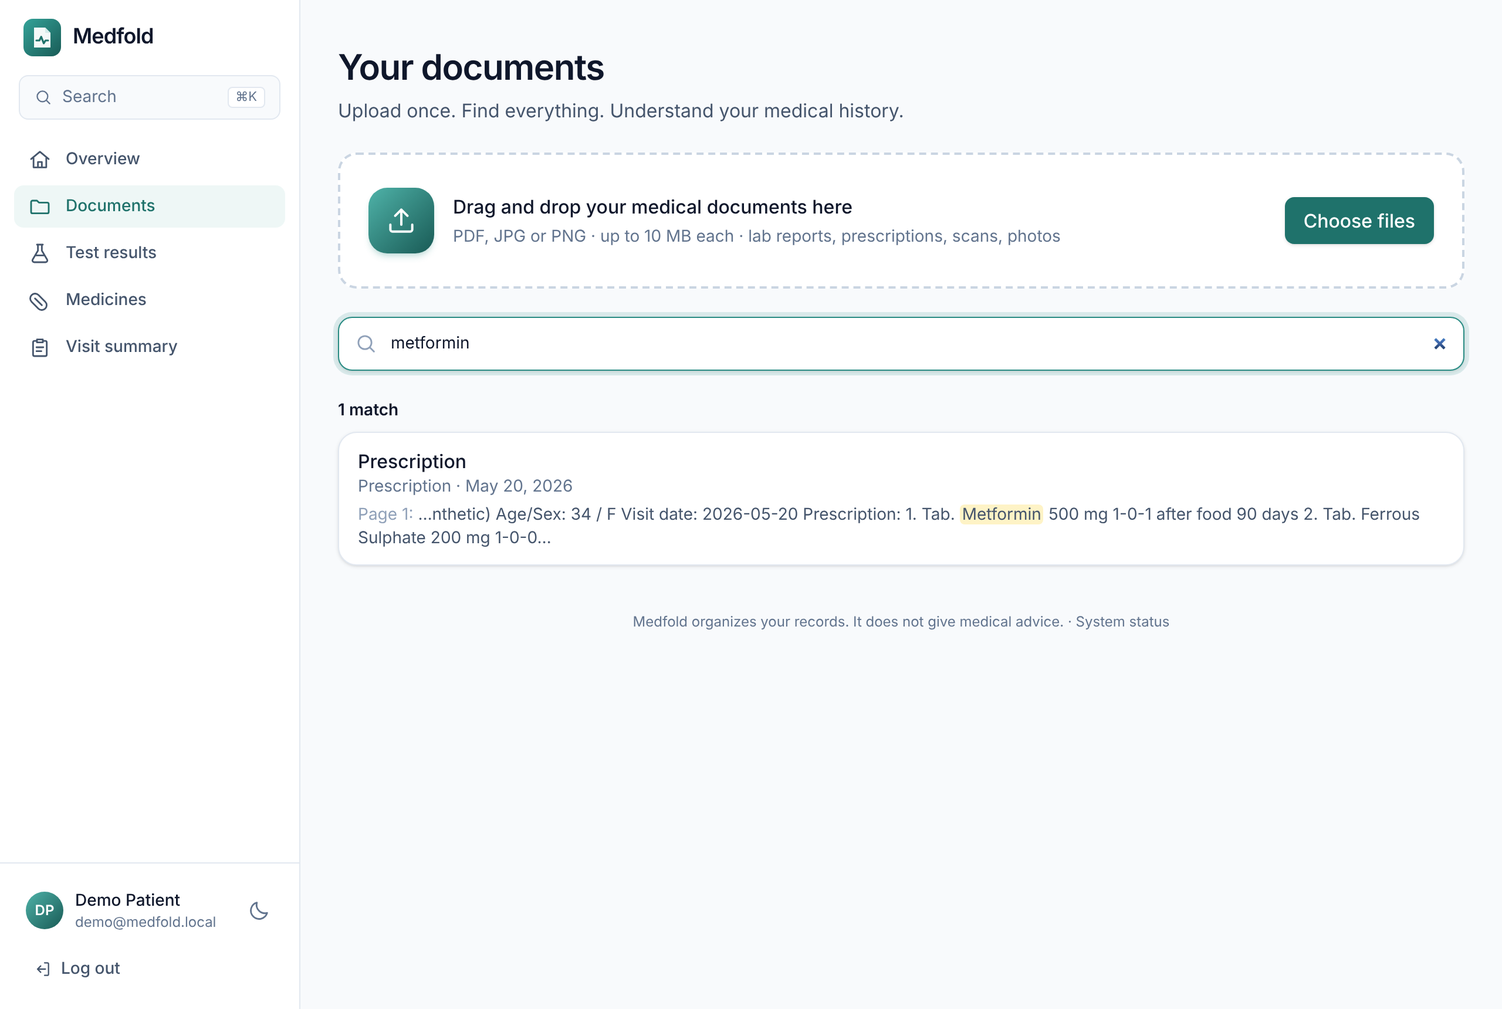
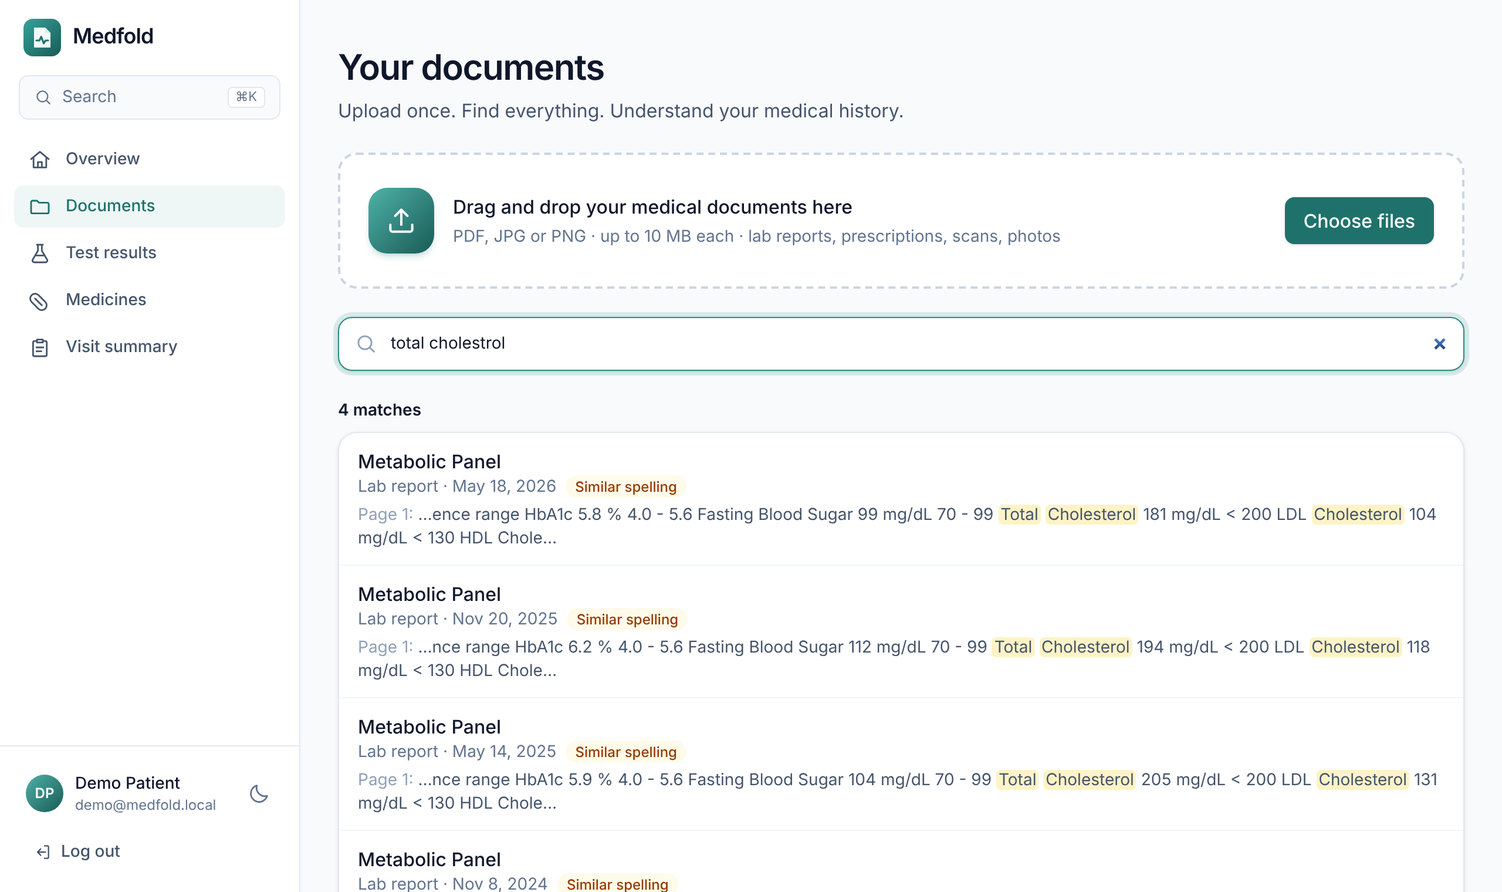
docs: ADR-011 for typo-tolerant search, and updated numbers
ADR-011 records the threshold measurements and the strict-similarity
finding. ADR-003 is marked as amended. Limitations, feature matrix,
status, roadmap, API and database docs updated; every number re-measured
with scripts/verify-claims.sh (479 tests) and the numbers card redrawn.

diff --git a/README.md b/README.md
@@ -4,7 +4,7 @@
 
 <p align="center">
   <a href="https://github.com/n3h4a/medfold/actions/workflows/ci.yml"><img src="https://github.com/n3h4a/medfold/actions/workflows/ci.yml/badge.svg" alt="CI"></a>
-  <a href="docs/05-testing/test-plan.md#coverage"><img src="https://img.shields.io/badge/tests-471%20passing-brightgreen" alt="471 tests passing"></a>
+  <a href="docs/05-testing/test-plan.md#coverage"><img src="https://img.shields.io/badge/tests-479%20passing-brightgreen" alt="479 tests passing"></a>
   <a href="docs/05-testing/test-plan.md#coverage"><img src="https://img.shields.io/badge/line%20coverage-93--97%25-brightgreen" alt="Line coverage 93 to 97 percent"></a>
   <a href="docs/05-testing/code-audit.md"><img src="https://img.shields.io/badge/security%20checks-22%2F22-brightgreen" alt="22 of 22 security checks pass"></a>
   <a href="LICENSE"><img src="https://img.shields.io/badge/license-MIT-blue.svg" alt="MIT license"></a>
@@ -36,7 +36,7 @@
 </p>
 
 <p align="center">
-  <img src="assets/charts/by-the-numbers.png" alt="By the numbers: 471 automated tests, 93 to 97 percent line coverage, 29 REST endpoints, under 12 ms p95 read latency, 25 of 25 routes attacked for privacy, 10 database tables, 10 decision records, 5 CI jobs per push" width="100%">
+  <img src="assets/charts/by-the-numbers.png" alt="By the numbers: 479 automated tests, 93 to 97 percent line coverage, 29 REST endpoints, under 12 ms p95 read latency, 25 of 25 routes attacked for privacy, 10 database tables, 11 decision records, 5 CI jobs per push" width="100%">
   <br><sub>Every number above is measured, not estimated: <code>scripts/verify-claims.sh</code> re-runs the suites and recounts them.</sub>
 </p>
 
@@ -125,13 +125,15 @@ Four rules came out of that, and every later decision follows them:
 | ![HbA1c over time with the printed range shaded](demo/screenshots/lab-trend.png) | ![Search palette finding tests and documents](demo/screenshots/search-palette.png) |
 
 <details>
-<summary>More screens: test results, medicines, dark mode, phone, login</summary>
+<summary>More screens: test results, medicines, dark mode, phone, login, typo-tolerant search</summary>
 
 | Every test, latest and previous value | Every medicine | Dark mode |
 |---|---|---|
 | ![Test results as cards](demo/screenshots/test-results.png) | ![Medicines as written](demo/screenshots/medicines.png) | ![Overview in dark mode](demo/screenshots/dark-mode.png) |
 | **On a phone** | **Trend on a phone** | **Log in** |
 | ![Overview on a phone](demo/screenshots/mobile-overview.png) | ![Trend on a phone](demo/screenshots/mobile-trend.png) | ![Login page](demo/screenshots/login.png) |
+| **Misspelled search still finds it** | | |
+| ![Search for "total cholestrol" finding every metabolic panel, marked as a similar spelling](demo/screenshots/search.png) | | |
 
 </details>
 
@@ -205,7 +207,7 @@ I turned down and what the choice costs.
 | Question | Answer |
 |---|---|
 | **Why Spring Boot?** ([ADR-008](docs/03-design/adr/ADR-008-why-spring-boot.md)) | The public API is where mistakes cost most. Spring gives tested JWT auth, precise transactions and repositories that can't load another user's data. The price: a heavier runtime than Node or Go. |
-| **Why PostgreSQL, and only PostgreSQL?** ([ADR-009](docs/03-design/adr/ADR-009-why-postgresql.md)) | One database also runs the job queue (`SKIP LOCKED`), search and login throttling, so an upload and its job are saved atomically and there's one thing to back up. Search is simple substring matching as a result. |
+| **Why PostgreSQL, and only PostgreSQL?** ([ADR-009](docs/03-design/adr/ADR-009-why-postgresql.md)) | One database also runs the job queue (`SKIP LOCKED`), search and login throttling, so an upload and its job are saved atomically and there's one thing to back up. Search stays inside PostgreSQL too: substring matching plus `pg_trgm` for misspellings ([ADR-011](docs/03-design/adr/ADR-011-typo-tolerant-search.md)). |
 | **Why OCR before AI?** ([ADR-010](docs/03-design/adr/ADR-010-ocr-before-ai.md)) | Digital PDFs already contain exact text, so there's nothing for a vision model to improve. The model reads stored text, which makes every value traceable and lets the app run offline. Handwriting reads poorly as a result. |
 | **How do you stop the AI giving medical advice?** ([ADR-007](docs/03-design/adr/ADR-007-ai-safety-boundary.md)) | Give it nowhere to put advice: the schema has no such field, the wording is checked, and "above range" is arithmetic in the backend. |
 | **Why two services?** ([ADR-005](docs/03-design/adr/ADR-005-service-split.md)) | Python has the best OCR and LLM tools, Java the strongest core. The AI service is stateless and can be replaced. |
@@ -281,8 +283,8 @@ Real mistakes, all fixed, each with a test that now guards it ([full bug log](do
 
 | | |
 |---|---|
-| **Tests** | 471: 223 backend (against a real PostgreSQL), 108 frontend, 140 AI service, plus an end-to-end CI job on the built Docker stack that OCRs a photographed prescription |
-| **Coverage** | Lines: backend 93.3%, frontend 94.7%, AI service 97.1% ([test plan](docs/05-testing/test-plan.md)) |
+| **Tests** | 479: 230 backend (against a real PostgreSQL), 109 frontend, 140 AI service, plus an end-to-end CI job on the built Docker stack that OCRs a photographed prescription |
+| **Coverage** | Lines: backend 93.6%, frontend 94.7%, AI service 97.1% ([test plan](docs/05-testing/test-plan.md)) |
 | **Reproducible** | `scripts/verify-claims.sh` re-runs every suite and recounts every number on this page |
 | **Privacy** | `UserIsolationTest` attacks all 25 routes as a second user; new routes fail the build until they're checked |
 | **Security** | `scripts/security-check.sh` attacks a running stack from outside: 22/22 pass; no known vulnerable dependencies ([code audit](docs/05-testing/code-audit.md)) |
@@ -313,7 +315,7 @@ All limitations: [KNOWN_LIMITATIONS.md](KNOWN_LIMITATIONS.md).
 **v1.1.0**: feature-complete for one person's records, CI green. Done, in progress, remaining
 and known issues: **[PROJECT_STATUS.md](PROJECT_STATUS.md)**.
 
-Next: password reset and two-factor login, typo-tolerant search, more OCR languages, a vision
+Next: password reset and two-factor login, more OCR languages, a vision
 model only for hard-to-read pages, sharing a read-only link with a doctor, FHIR export
 ([ROADMAP.md](ROADMAP.md), [issues](https://github.com/n3h4a/medfold/issues)).
 

diff --git a/docs/03-design/adr/ADR-011-typo-tolerant-search.md b/docs/03-design/adr/ADR-011-typo-tolerant-search.md
@@ -1,0 +1,75 @@
+# ADR-011: Typo-tolerant, ranked search with pg_trgm
+
+**Status:** Accepted · **Amends** [ADR-003](ADR-003-search.md) · Closes
+[issue #3](https://github.com/n3h4a/medfold/issues/3)
+
+## Context
+
+ADR-003 chose exact substring search inside PostgreSQL. It works, but medical text is exactly
+where exact matching hurts: OCR misreads letters ("Haemoglobn"), people misspell drug and test
+names ("cholestrol", "platlet"), and results came back in date order with no sense of how well
+they matched.
+
+## Decision
+
+Keep search in PostgreSQL and add the `pg_trgm` extension (migration V8):
+
+- **Every word must still match the same document**, either **as typed** (unchanged: `ILIKE`
+  substring) or, for words of 4+ characters, **as a similar spelling**: pg_trgm **strict** word
+  similarity above **0.45** against the title, summary, doctor, facility, page text, test names or
+  medicine names. The threshold is set per transaction (`set_config(..., true)`), so it affects
+  nothing else.
+- **Ranking:** each word scores 1.0 when found as typed, otherwise its best similarity; documents
+  are ordered by the total, then by record date. Exact matches therefore always come first.
+- **Responses say what happened:** `exact: false` when a word matched only a similar spelling,
+  and `highlights` lists the text in the snippet that matched each word, so the UI can mark
+  "Similar spelling" and highlight the right words.
+- **Snippets** come from the page that matches best: as typed first, otherwise the closest
+  spelling.
+- **GIN trigram indexes** on document titles, page text, test names and medicine names.
+
+### Strict similarity, and choosing the threshold
+
+The first version used plain `word_similarity`. Trying it on the demo reports showed a false match:
+"metfor" (meant to find Metformin) also matched every report whose footer says "invented **for
+Med**fold", because plain word similarity may compare against a stretch of text that crosses a word
+boundary. `strict_word_similarity` only compares against whole words, which fixed it (test
+`similarSpellingsMatchWholeWordsOnly`).
+
+Measured with vocabulary from the demo reports:
+
+| Query | Text | Plain | Strict |
+|---|---|---|---|
+| `haemoglobn` | Haemoglobin | 0.82 | 0.64 |
+| `cholestrol` | Cholesterol | 0.64 | 0.64 |
+| `metformn` | Metformin | 0.78 | 0.58 |
+| `amlodepine` | Amlodipine | 0.57 | 0.57 |
+| `platlet` | Platelet | 0.55 | 0.55 |
+| `diabetic` | diabetes | 0.67 | 0.50 |
+| `metfor` | "invented for Medfold" (unrelated) | **0.57** | 0.27 |
+| `urea` | Urine (unrelated) | 0.40 | 0.22 |
+
+pg_trgm's default strict threshold (0.5) misses "diabetic"; 0.45 catches every misspelling above
+while unrelated text stays below 0.3. Words of three letters or fewer match only as typed: their
+few trigrams look similar to almost anything.
+
+## Alternatives considered
+
+| Option | Why not |
+|---|---|
+| Keep exact matching | Misses OCR errors and misspellings, which are common in exactly this domain |
+| Levenshtein distance (`fuzzystrmatch`) | Needs word-by-word comparison in SQL and has no index support |
+| Full-text search (`tsvector`) | Still no typo tolerance, and stemming breaks prefixes like "metfor" |
+| A search engine | Same reasons as in ADR-003: a second store of medical data for no gain at this scale |
+
+## Consequences
+
+- Misspellings and OCR errors find the document, clearly labelled as a similar match; exact
+  matches rank first, so nothing that worked before got worse (all earlier search tests pass
+  unchanged).
+- **Limit:** trigrams handle missing, extra or wrong letters well, swapped letters poorly
+  ("metfromin" scores 0.43 against "Metformin" and isn't found).
+- **Cost:** similarity scoring runs per document of the user. At personal scale this is
+  milliseconds; the GIN indexes keep the "is there a similar word" checks cheap as text grows.
+- Still one datastore, still owner-scoped in every statement (`SearchApiTest` checks that similar
+  spellings never reach another user's documents).

diff --git a/docs/03-design/adr/ADR-009-why-postgresql.md b/docs/03-design/adr/ADR-009-why-postgresql.md
@@ -22,7 +22,7 @@ another system is done with a PostgreSQL feature:
 | Records and ownership | — | Tables with `user_id` on every row, foreign keys with `ON DELETE CASCADE` | Deleting an account is one transaction |
 | Background jobs | RabbitMQ / SQS | `processing_jobs` + `FOR UPDATE SKIP LOCKED` | The document and its job are saved in the same transaction; no lost or orphaned jobs |
 | One active job per document | Application locks | Partial unique index `WHERE status IN ('PENDING','RUNNING')` | The database refuses a duplicate even under a race |
-| Search | Elasticsearch | `ILIKE` over titles, page text, test and medicine names | Tens of milliseconds at one person's scale; substring matching finds "metfor" |
+| Search | Elasticsearch | `ILIKE` plus `pg_trgm` similarity over titles, page text, test and medicine names | Milliseconds at one person's scale; finds "metfor" and "haemoglobn" ([ADR-011](ADR-011-typo-tolerant-search.md)) |
 | Login throttling | Redis | `login_failures` rows, hashed keys, swept every 5 minutes | Shared by every backend instance; survives restarts |
 | Data rules | Application code | `CHECK` constraints on statuses and types | Bad data can't be written even by a buggy caller |
 
@@ -40,8 +40,8 @@ another system is done with a PostgreSQL feature:
 - **Good:** one thing to back up (`scripts/backup.sh`), one connection string, and every
   multi-step change is atomic. The load test (20 concurrent users) puts reads at a p95 of
   6–11 ms with this design ([performance-testing.md](../../05-testing/performance-testing.md)).
-- **Cost:** search is substring matching without ranking or stemming ("diabetic" won't find
-  "diabetes"), and sequential scans will slow down at hundreds of thousands of pages per user.
-  The fix is a `pg_trgm` GIN index first, a search engine much later.
+- **Cost:** search has no stemming or synonyms ("sugar" won't find "glucose"). Similar spellings
+  and ranking came later with `pg_trgm` inside the same database ([ADR-011](ADR-011-typo-tolerant-search.md));
+  a search engine is only worth it at a scale far beyond one person's records.
 - **Cost:** the queue is polled every 2 seconds, so a job can wait up to 2 s before starting.
   `LISTEN/NOTIFY` would remove that if it ever matters.

diff --git a/database/README.md b/database/README.md
@@ -31,6 +31,7 @@ without a join. `login_failures` stands alone: it is keyed by hashed email or cl
 | `documents (user_id, doc_date DESC NULLS LAST, created_at DESC)` | The timeline, the app's main screen |
 | `documents (user_id, sha256)` unique | Duplicate upload detection |
 | `documents (user_id, status)`, `(user_id, doc_type)` | Filtering by state and type |
+| GIN trigram on `documents.title`, `document_pages.text`, `lab_results.test_name`, `medications.name` | Similar-spelling search (`pg_trgm`, V8) |
 | `lab_results (user_id, test_key, observed_on)` | Trends: one test across all reports |
 | `lab_results (document_id, position)`, same on `medications`, `document_terms` | A document's results in printed order |
 | `medications (user_id, prescribed_on DESC)` | Medicines list |
@@ -40,8 +41,9 @@ without a join. `login_failures` stands alone: it is keyed by hashed email or cl
 | `login_failures (throttle_key, failed_at DESC)`, `(failed_at)` | Counting recent failures, deleting expired ones |
 | `extraction_runs (document_id, created_at DESC)` | Latest run of a document |
 
-Search uses `ILIKE` substring matching without an index; see
-[ADR-003](../docs/03-design/adr/ADR-003-search.md) for why that is the right trade-off at this scale.
+Search uses `ILIKE` for words as typed and `pg_trgm` word similarity for misspellings, with GIN
+trigram indexes on titles, page text, test and medicine names; see
+[ADR-003](../docs/03-design/adr/ADR-003-search.md) and [ADR-011](../docs/03-design/adr/ADR-011-typo-tolerant-search.md).
 
 ## Migrations
 
@@ -54,6 +56,7 @@ Search uses `ILIKE` substring matching without an index; see
 | V5 `processing_jobs_user` | `processing_jobs.user_id`, so the worker reads documents through owner-scoped queries |
 | V6 `login_failures` | Wrong-password attempts for throttling, shared by all backend instances |
 | V7 `medications_extracted_name` | Name as first read, so reprocessing recognises renamed corrections |
+| V8 `search_trigram_indexes` | `pg_trgm` extension and GIN trigram indexes for typo-tolerant search |
 
 **Rules for new migrations:** never edit an applied migration; add `V<n>__<what>.sql`. When adding
 a `NOT NULL` column to a table that may have rows, add it nullable, backfill, then set

diff --git a/PROJECT_STATUS.md b/PROJECT_STATUS.md
@@ -7,8 +7,8 @@
 | **Version** | 1.1.0 (see [CHANGELOG](CHANGELOG.md)) |
 | **Phase** | Feature-complete for a personal health record; hardening and sharing next |
 | **Build** | CI green on `main`: backend, AI service, frontend, deployment config, end-to-end on the Docker stack |
-| **Tests** | 471 (223 backend · 108 frontend · 140 AI service), 0 failing; reproduce with `scripts/verify-claims.sh` |
-| **Coverage** | Lines 93.3% backend · 94.7% frontend · 97.1% AI service |
+| **Tests** | 479 (230 backend · 109 frontend · 140 AI service), 0 failing; reproduce with `scripts/verify-claims.sh` |
+| **Coverage** | Lines 93.6% backend · 94.7% frontend · 97.1% AI service |
 | **Security check** | 22/22 external checks pass (`scripts/security-check.sh`); no known vulnerable dependencies (npm, pip) |
 | **Try it** | `docker compose up` locally, or a GitHub Codespace ([how](docs/06-deployment/deployment-guide.md#a-public-demo)) |
 
@@ -27,7 +27,7 @@ Feature by feature, with the tests behind each: [FEATURE_MATRIX.md](FEATURE_MATR
 ## In progress
 
 Nothing half-built is on `main`. The next milestone is **v1.2: trust and recovery**: password reset,
-two-factor login, typo-tolerant search, sex- and age-specific ranges.
+two-factor login and sex- and age-specific ranges. Typo-tolerant search (#3) is done.
 
 ## Remaining before calling it "production for other people"
 
@@ -46,7 +46,6 @@ These matter once people other than me rely on it:
 |---|---|---|
 | OCR text isn't kept when the extraction call fails | Such a document isn't searchable until a retry succeeds | [ADR-010](docs/03-design/adr/ADR-010-ocr-before-ai.md), roadmap |
 | Sex- and age-specific ranges aren't parsed | Those results show no comparison rather than a possibly wrong one | [KNOWN_LIMITATIONS](KNOWN_LIMITATIONS.md) |
-| Search has no typo tolerance or ranking | "diabetic" won't find "diabetes" | Roadmap v1.2 → `pg_trgm` |
 | Files live on one server's disk | Can't scale out beyond one host yet | Roadmap: object storage |
 | The dark theme flashes light for a moment on first load | Cosmetic | The theme is applied after the app starts, because the CSP forbids inline scripts |
 

diff --git a/docs/03-design/adr/README.md b/docs/03-design/adr/README.md
@@ -8,7 +8,7 @@ considered, and what it costs. Format: [Michael Nygard's ADR](https://cognitect.
 |---|---|---|
 | [ADR-001](ADR-001-authentication.md) | Short-lived JWT access tokens + rotating refresh token in an HttpOnly cookie | Accepted |
 | [ADR-002](ADR-002-storage.md) | PostgreSQL for data; files behind a `StorageService` interface, local disk first | Accepted |
-| [ADR-003](ADR-003-search.md) | Substring search in PostgreSQL, no search engine | Accepted |
+| [ADR-003](ADR-003-search.md) | Substring search in PostgreSQL, no search engine | Amended by ADR-011 |
 | [ADR-004](ADR-004-ocr.md) | PDF text layer first, Tesseract OCR only for pages without text | Accepted |
 | [ADR-005](ADR-005-service-split.md) | Spring Boot for the product, a separate Python FastAPI service for AI | Accepted |
 | [ADR-006](ADR-006-job-queue.md) | Background processing through a PostgreSQL job table (`SKIP LOCKED`), not a message broker | Accepted |
@@ -16,3 +16,4 @@ considered, and what it costs. Format: [Michael Nygard's ADR](https://cognitect.
 | [ADR-008](ADR-008-why-spring-boot.md) | **Why Spring Boot?** Java 21 + Spring for the public API, where mistakes are most costly | Accepted |
 | [ADR-009](ADR-009-why-postgresql.md) | **Why PostgreSQL?** One database also does the queue, search and throttling | Accepted |
 | [ADR-010](ADR-010-ocr-before-ai.md) | **Why OCR before AI?** The model reads extracted text, not page images | Accepted |
+| [ADR-011](ADR-011-typo-tolerant-search.md) | Typo-tolerant, ranked search with `pg_trgm`, exact matches first | Accepted |

diff --git a/CHANGELOG.md b/CHANGELOG.md
@@ -3,6 +3,15 @@
 All notable changes to Medfold. Format based on [Keep a Changelog](https://keepachangelog.com/en/1.1.0/);
 versions follow [Semantic Versioning](https://semver.org/).
 
+## [Unreleased]
+
+### Added
+- **Typo-tolerant, ranked search** ([#3](https://github.com/n3h4a/medfold/issues/3),
+  [ADR-011](docs/03-design/adr/ADR-011-typo-tolerant-search.md)): misspellings and OCR errors
+  ("haemoglobn", "platlet") find the document, marked "Similar spelling" with the matched word
+  highlighted; exact matches rank first. Migration V8 adds `pg_trgm` and GIN trigram indexes;
+  search results gain `highlights` and `exact`.
+
 ## [1.1.0] - 2026-10-31 - Polish and proof
 
 ### Added
@@ -84,6 +93,7 @@ versions follow [Semantic Versioning](https://semver.org/).
 - Authentication: register and login with BCrypt, 15-minute JWT access tokens, rotating refresh
   tokens in an HttpOnly cookie with reuse detection, protected routes and automatic refresh.
 
+[Unreleased]: https://github.com/n3h4a/medfold/compare/v1.1.0...HEAD
 [1.1.0]: https://github.com/n3h4a/medfold/compare/v1.0.0...v1.1.0
 [1.0.0]: https://github.com/n3h4a/medfold/compare/v0.5.0...v1.0.0
 [0.5.0]: https://github.com/n3h4a/medfold/compare/v0.1.0...v0.5.0

diff --git a/docs/05-testing/test-plan.md b/docs/05-testing/test-plan.md
@@ -23,12 +23,12 @@ tests, the language model in AI service tests).
 
 | Service | Tests | Lines | Branches | Report |
 |---|---|---|---|---|
-| Backend | 223 | 93.3% | 82.6% | `backend/target/site/jacoco/index.html` |
-| Frontend | 108 | 94.7% | 82.5% | `frontend/coverage/index.html` |
+| Backend | 230 | 93.6% | 83.2% | `backend/target/site/jacoco/index.html` |
+| Frontend | 109 | 94.7% | 82.6% | `frontend/coverage/index.html` |
 | AI service | 140 (7 need Tesseract) | 97.1% | 95.2% | `ai-service/htmlcov/index.html` |
-| **Total** | **471** | | | |
+| **Total** | **479** | | | |
 
-Measured 2026-10-31 with Tesseract installed, as in CI. Without Tesseract the 7 OCR tests are
+Measured 2026-11-02 with Tesseract installed, as in CI. Without Tesseract the 7 OCR tests are
 skipped and AI service line coverage drops to about 92%; an earlier version of this table quoted
 that lower figure by mistake. CI publishes the three HTML reports as artifacts on every run.
 

diff --git a/backend/README.md b/backend/README.md
@@ -17,7 +17,7 @@ Configuration comes from environment variables or the repository-root `.env`; se
 ## Test
 
 ```bash
-./mvnw test        # 223 tests; Testcontainers starts a throwaway PostgreSQL, so Docker must run
+./mvnw test        # 230 tests; Testcontainers starts a throwaway PostgreSQL, so Docker must run
 ```
 
 Highlights: `UserIsolationTest` (every route classified, every owned route attacked by a second
@@ -41,7 +41,7 @@ src/main/java/com/medfold/
 ├── health/       /api/v1/health
 ├── common/       error format, exception handling, paging
 └── config/       security, scheduling, clock
-src/main/resources/db/migration/   Flyway migrations V1–V7 (see database/README.md)
+src/main/resources/db/migration/   Flyway migrations V1–V8 (see database/README.md)
 ```
 
 **Conventions:** repositories for user data expose only owner-scoped methods; services take the

diff --git a/KNOWN_LIMITATIONS.md b/KNOWN_LIMITATIONS.md
@@ -32,7 +32,8 @@ personal-scale v1.0; most have a planned next step in [ROADMAP.md](ROADMAP.md).
 
 - **Trends convert units only for a fixed list of tests** (glucose, cholesterol, creatinine, HbA1c
   and a few more); other unit changes are listed in the table but not plotted.
-- **Search is substring matching** without ranking or typo tolerance.
+- **Search tolerates misspellings but not synonyms:** "haemoglobn" finds Haemoglobin, but "sugar"
+  won't find "glucose", and swapped letters ("metfromin") aren't matched ([ADR-011](docs/03-design/adr/ADR-011-typo-tolerant-search.md)).
 - **The data export doesn't embed original files;** each can be downloaded from its document.
 - **No offline mode, no mobile app.** The web app works on phones but needs a connection.
 - **Accounts:** no email verification, password reset by email, multi-factor authentication or

diff --git a/demo/NARRATION.md b/demo/NARRATION.md
@@ -19,7 +19,7 @@ read it at a relaxed pace (about 2.5 words per second) and each line fits its sc
 | 0:56 | Prescription | "…and opens it." |
 | 0:59 | Visit summary | "Before an appointment, the visit summary puts the latest results, previous values and current medicines on one printable page." |
 | 1:07 | Dark mode | "There's a dark mode, and it all works on a phone." |
-| 1:10 | Log out | "Logging out revokes the session on the server. Medfold is Spring Boot, React, FastAPI and PostgreSQL, with 471 automated tests. The code is on GitHub." |
+| 1:10 | Log out | "Logging out revokes the session on the server. Medfold is Spring Boot, React, FastAPI and PostgreSQL, with over 470 automated tests. The code is on GitHub." |
 | 1:14 | End card | (silence, or "Thanks for watching.") |
 
 ## Adding your voice

diff --git a/FEATURE_MATRIX.md b/FEATURE_MATRIX.md
@@ -48,7 +48,7 @@ What Medfold does today, how complete each feature is, and which tests prove it.
 
 | Feature | Status | Notes | Proved by |
 |---|---|---|---|
-| Search any word in any document | 🟡 | Substring match with snippets; no typo tolerance or ranking | `SearchApiTest`, `DocumentsPage.test.tsx` |
+| Search any word in any document | ✅ | As typed or a similar spelling ("haemoglobn"), exact matches first, snippets; no synonyms | `SearchApiTest`, `DocumentsPage.test.tsx` |
 | Search from anywhere (Ctrl/⌘ K) | ✅ | Pages, tests and documents, keyboard driven | `CommandPalette.test.tsx` |
 | Visit summary for an appointment | ✅ | One printable page: latest results, ranges, previous values, medicines, sources | `VisitSummaryPage.test.tsx` |
 | Share with a doctor by link | 🔜 | | |
